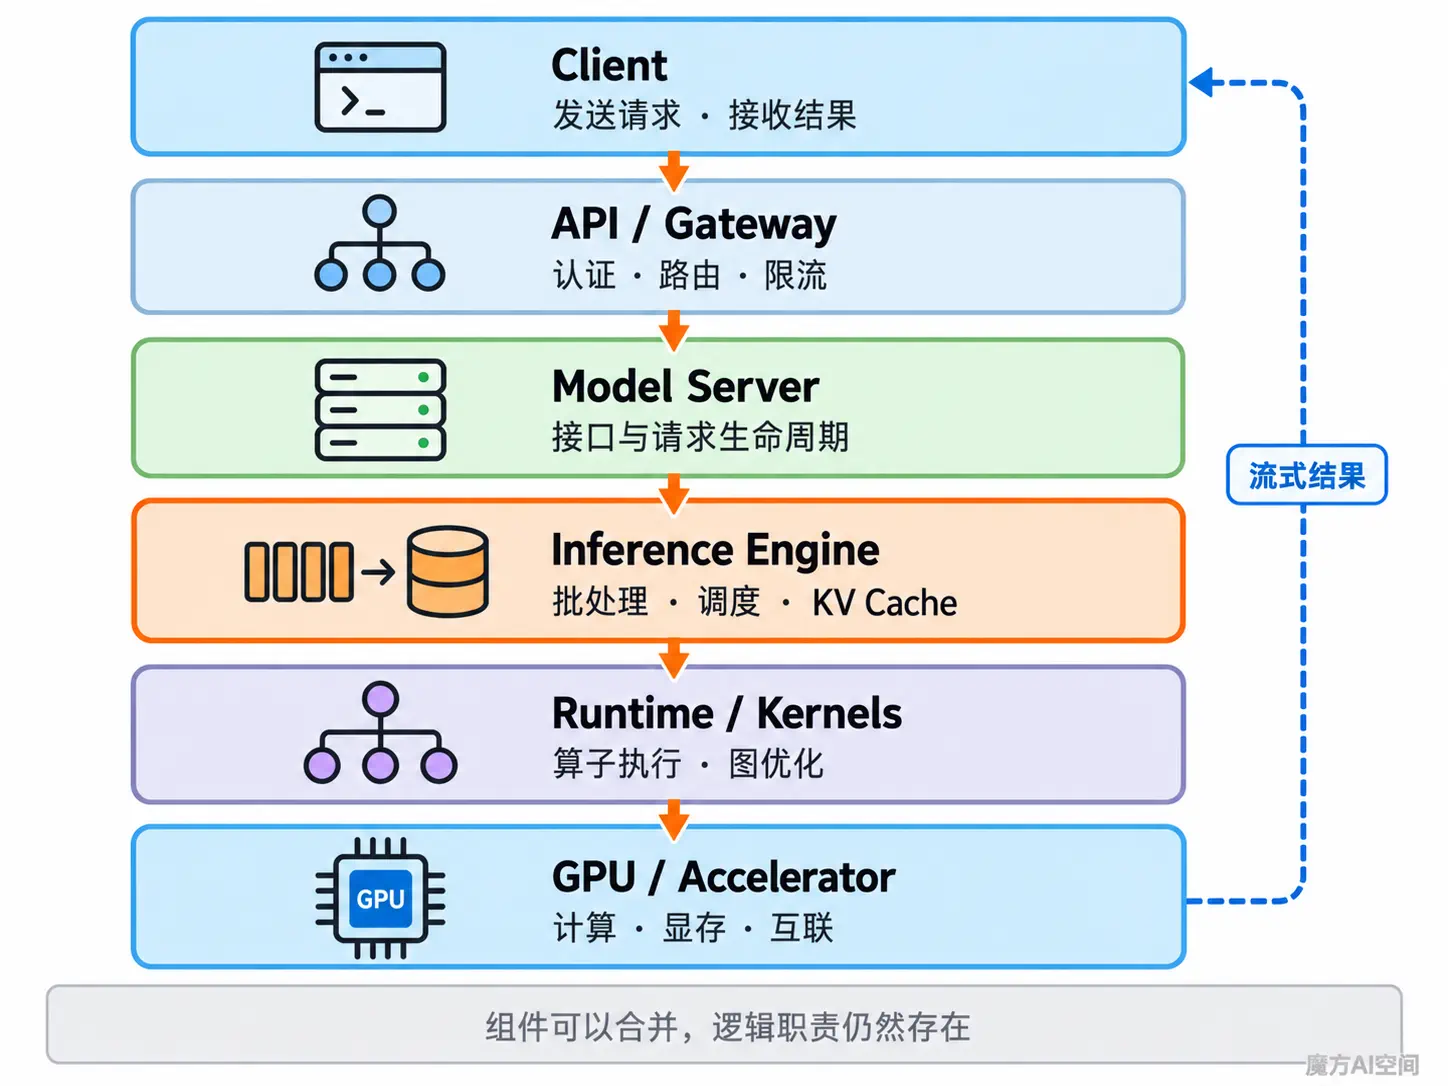
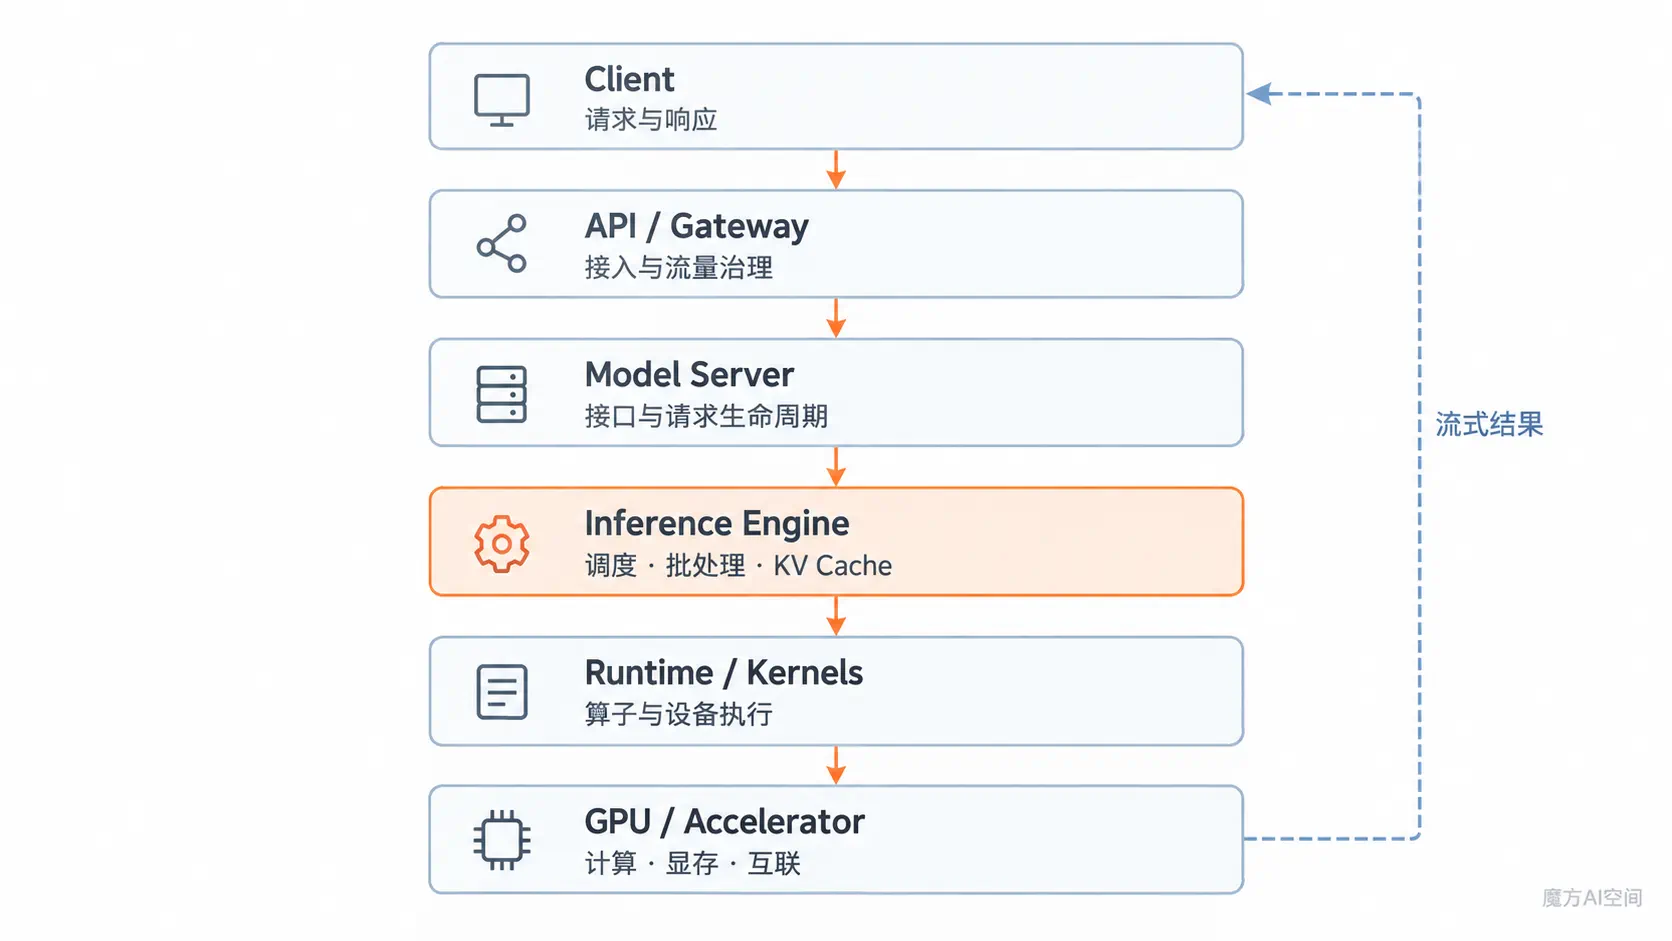
update

diff --git a/09_大模型推理与部署/01_推理系统基础/README.md b/09_大模型推理与部署/01_推理系统基础/README.md
@@ -8,9 +8,13 @@
 
 ## 核心地图
 
-![大模型推理系统的逻辑分层](./imgs/inference-system-layers.webp)
+推理系统可以按职责划分为六个逻辑层级，请求下行与结果返回的整体关系如图 1 所示。
 
-*图 1：大模型推理系统的逻辑分层*
+<p align="center">
+  <img src="./imgs/inference-system-layers.webp" alt="大模型推理系统的逻辑分层" width="580">
+</p>
+
+<p align="center"><em>图 1：大模型推理系统的逻辑分层</em></p>
 
 这些名称在不同项目中可能略有重叠，判断组件时应看它负责什么，而不是只看名称。
 
@@ -34,7 +38,7 @@
 | Runtime / Kernels | 执行算子、图优化和设备调用 | 精度、兼容性、算子效率 |
 | Hardware | 提供计算、显存和互联 | 算力、带宽、容量、拓扑 |
 
-如图 1 所示，框架可能把多个层级合并在同一进程，也可能拆成多个组件；逻辑职责仍然存在。
+框架可能把多个层级合并在同一进程，也可能拆成多个组件；逻辑职责仍然存在。
 
 ## 3. 一次请求怎样流动
 
@@ -50,7 +54,7 @@
 
 ![一次大模型推理请求的生命周期](./imgs/request-lifecycle.webp)
 
-*图 2：一次大模型推理请求的生命周期*
+<p align="center"><em>图 2：一次大模型推理请求的生命周期</em></p>
 
 如图 2 所示，请求可能在每一层等待。端到端延迟因此不只等于 GPU 计算时间，还可能包含网络、排队、预处理和响应传输。
 
